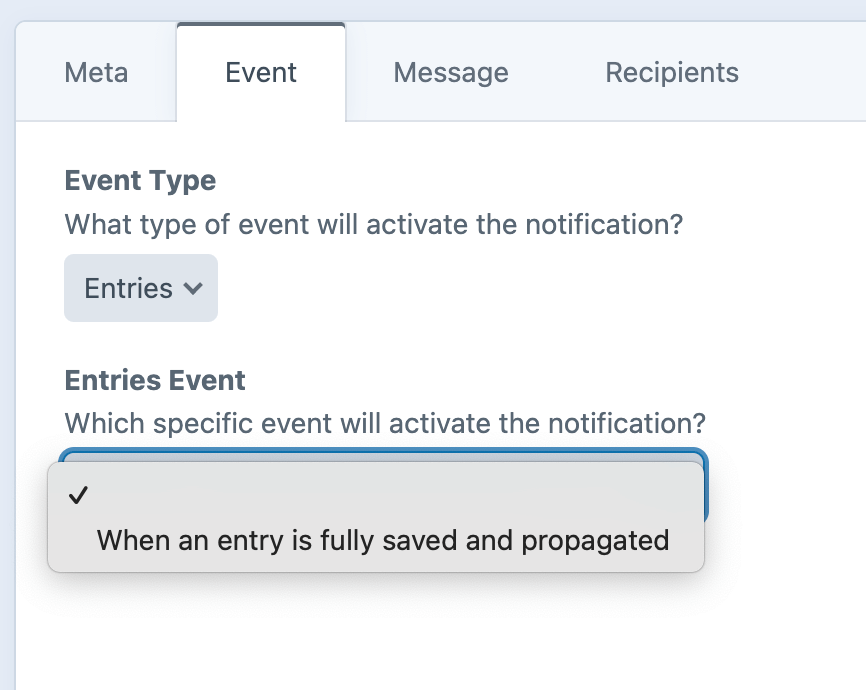
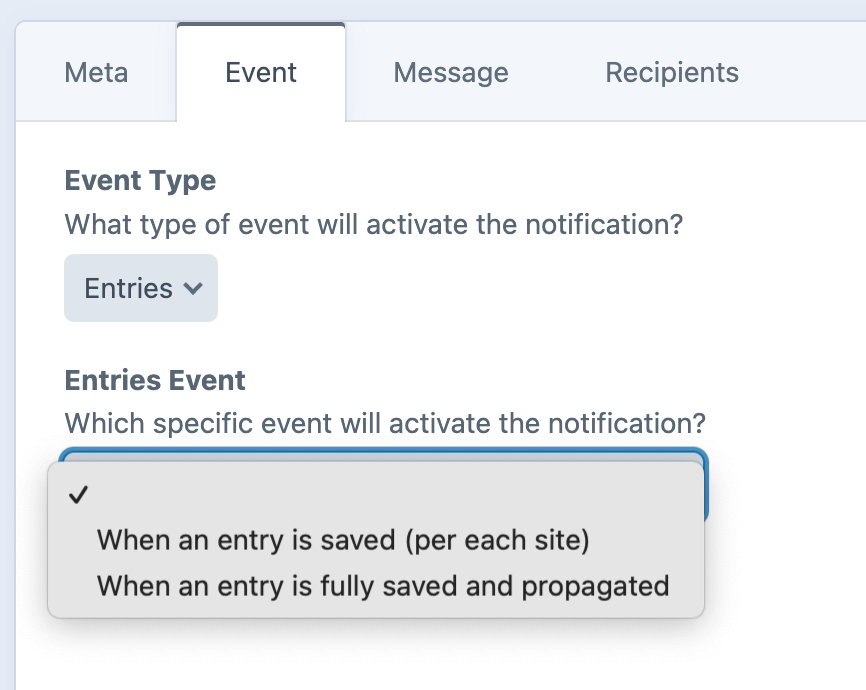
Added filtering by selected Sites

diff --git a/src/web/assets/dist/js/nested-checkboxes.js b/src/web/assets/dist/js/nested-checkboxes.js
@@ -6,9 +6,9 @@ var __webpack_exports__ = {};
 // Control behavior of nested checkboxes
 window.nestedCheckboxes = {
   // Toggle nested checkboxes when parent is checked/unchecked
-  toggleGroup: function toggleGroup(el, group) {
+  toggleGroup: function toggleGroup(el, type, group) {
     // Get children of specified group
-    var $children = $("[data-group=\"".concat(group, "\"]"));
+    var $children = $("[data-group=\"".concat(type, "-").concat(group, "\"]"));
     // If parent is checked
     if (el.checked) {
       // Enable children

diff --git a/src/web/assets/src/js/nested-checkboxes.js b/src/web/assets/src/js/nested-checkboxes.js
@@ -2,9 +2,9 @@
 window.nestedCheckboxes = {
 
     // Toggle nested checkboxes when parent is checked/unchecked
-    toggleGroup: function(el, group) {
+    toggleGroup: function(el, type, group) {
         // Get children of specified group
-        const $children = $(`[data-group="${group}"]`);
+        const $children = $(`[data-group="${type}-${group}"]`);
         // If parent is checked
         if (el.checked) {
             // Enable children

diff --git a/src/web/assets/dist/css/nested-checkboxes.css b/src/web/assets/dist/css/nested-checkboxes.css
@@ -1,5 +1,6 @@
 .nested-checkboxes {
   position: relative;
+  margin-bottom: 10px;
 }
 .nested-checkboxes .checkbox {
   position: absolute;

diff --git a/src/web/assets/src/sass/nested-checkboxes.scss b/src/web/assets/src/sass/nested-checkboxes.scss
@@ -1,5 +1,6 @@
 .nested-checkboxes {
   position: relative;
+  margin-bottom: 10px;
 
   .checkbox {
     position: absolute;

diff --git a/src/web/twig/Extension.php b/src/web/twig/Extension.php
@@ -141,8 +141,48 @@ class Extension extends AbstractExtension implements GlobalsInterface
     public function getFunctions(): array
     {
         return [
+            new TwigFunction('availableSiteGroupsAndSites', [$this, 'availableSiteGroupsAndSites']),
             new TwigFunction('availableSectionAndEntryTypes', [$this, 'availableSectionAndEntryTypes']),
         ];
+    }
+
+    /**
+     * Get all available site groups and sites.
+     *
+     * @return array
+     */
+    public function availableSiteGroupsAndSites(): array
+    {
+        // Get sites services
+        $s = Craft::$app->getSites();
+
+        // Initialize site groups
+        $siteGroups = [];
+
+        // Loop through all site groups
+        foreach ($s->getAllGroups() as $group) {
+
+            // Initialize sites
+            $sites = [];
+
+            // Loop through all sites in this site group
+            foreach ($s->getSitesByGroupId($group->id) as $site) {
+
+                // Add each site
+                $sites[$site->id] = $site->name;
+
+            }
+
+            // Add each site group (with its respective sites)
+            $siteGroups[$group->id] = [
+                'name' => $group->name,
+                'sites' => $sites,
+            ];
+
+        }
+
+        // Return compiled options
+        return $siteGroups;
     }
 
     /**

diff --git a/src/models/Dispatch.php b/src/models/Dispatch.php
@@ -111,13 +111,26 @@ class Dispatch extends Model
      */
     private function _filterEntries(): bool
     {
+        // Get event element
+        $element = $this->event->sender;
+
         // Get event config details
         $sections   = ($this->notification->eventConfig['sections']   ?? []);
         $entryTypes = ($this->notification->eventConfig['entryTypes'] ?? []);
         $filters    = ($this->notification->eventConfig['filters']    ?? []);
 
-        // Get event element
-        $element = $this->event->sender;
+        // If triggered by an AFTER_SAVE event
+        if ('after-save' === $this->notification->event) {
+
+            // Get additional config details
+            $sites = ($this->notification->eventConfig['sites'] ?? []);
+
+            // If not in a valid Site, return false
+            if (!in_array($element->siteId, $sites, false)) {
+                return false;
+            }
+
+        }
 
         // If not in a valid Section, return false
         if (!in_array($element->sectionId, $sections, false)) {

diff --git a/docs/events/types/entries.md b/docs/events/types/entries.md
@@ -10,16 +10,16 @@ description:
 
 Sends a notification when **an entry has finished saving on each particular site**.
 
-<img class="dropshadow" src="/images/events/entry-types-filters.png" alt="" style="width:570px; margin-top:22px">
+<img class="dropshadow" src="/images/events/sites-entry-types-filters.png" alt="" style="width:650px; margin-top:22px">
 
 ## When an entry is fully saved and propagated
 
-Sends a notification when **an entry has completely finished saving, and propagated across all sites**.
-
 :::warning Relationship Issues
-If your [message template](/messages/) relies on the [`original` variable](/messages/variables#element-variables), please note that any **related** values may have changed by the time propagation has completed.
+If your [message template](/messages/) relies on the [`original` variable](/messages/variables#element-variables), please note that any **related** values (ie: Matrix Blocks, Assets, etc) may have changed by the time propagation has completed.
 
 To ensure `original` relationships are accurate, instead use the event **"When an entry is saved (per each site)"** (see above).
 :::
+
+Sends a notification when **an entry has completely finished saving, and propagated across all sites**.
 
 <img class="dropshadow" src="/images/events/entry-types-filters.png" alt="" style="width:570px; margin-top:22px">

diff --git a/CHANGELOG.md b/CHANGELOG.md
@@ -3,6 +3,7 @@
 ## Unreleased
 
 ### Added
+- Added filtering by selected Sites. ([#5](https://github.com/doublesecretagency/craft-notifier/issues/5))
 - Added slideouts for Notification elements.
 - Added support for the [Closure](https://github.com/nystudio107/craft-closure) module.
 - Added buttons linking between Notifications and log.
